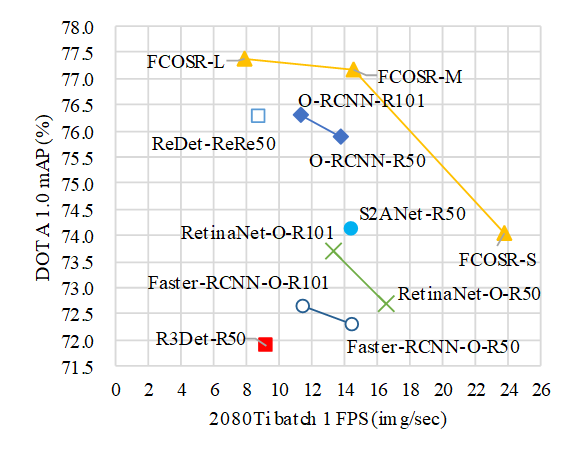
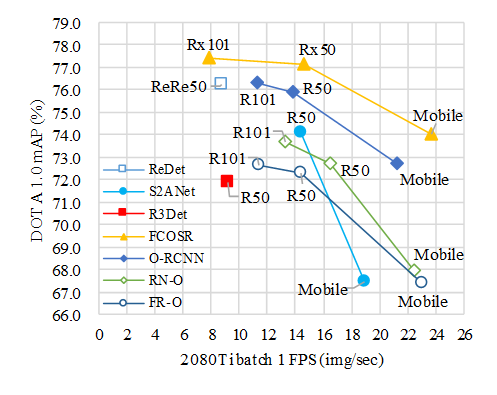
新增了轻量化模型(backbone)的速度精度对比。

diff --git a/README.md b/README.md
@@ -40,12 +40,16 @@ Details (Test device: nvidia RTX 2080ti)
 |Methods|backbone|FPS|mAP(%)|
 |-|-|-|-|
 |[ReDet](https://github.com/csuhan/ReDet)|ReR50|8.8|76.25|
+|[S<sup>2</sup>ANet](https://github.com/csuhan/s2anet)|Mobilenet v2|18.9|67.46|
 |[S<sup>2</sup>ANet](https://github.com/csuhan/s2anet)|R50|14.4|74.14|
 |[R<sup>3</sup>Det](https://github.com/SJTU-Thinklab-Det/r3det-on-mmdetection)|R50|9.2|71.9|
+|[Oriented-RCNN](https://github.com/jbwang1997/OBBDetection)|Mobilenet v2|21.2|72.72|
 |[Oriented-RCNN](https://github.com/jbwang1997/OBBDetection)|R50|13.8|75.87|
 |[Oriented-RCNN](https://github.com/jbwang1997/OBBDetection)|R101|11.3|76.28|
+|[RetinaNet-O](https://github.com/jbwang1997/OBBDetection)|Mobilenet v2|22.4|67.95|
 |[RetinaNet-O](https://github.com/jbwang1997/OBBDetection)|R50|16.5|72.7|
 |[RetinaNet-O](https://github.com/jbwang1997/OBBDetection)|R101|13.3|73.7|
+|[Faster-RCNN-O](https://github.com/jbwang1997/OBBDetection)|Mobilenet v2|23|67.41|
 |[Faster-RCNN-O](https://github.com/jbwang1997/OBBDetection)|R50|14.4|72.29|
 |[Faster-RCNN-O](https://github.com/jbwang1997/OBBDetection)|R101|11.4|72.65|
 |FCOSR-S|Mobilenet v2|23.7|74.05|
